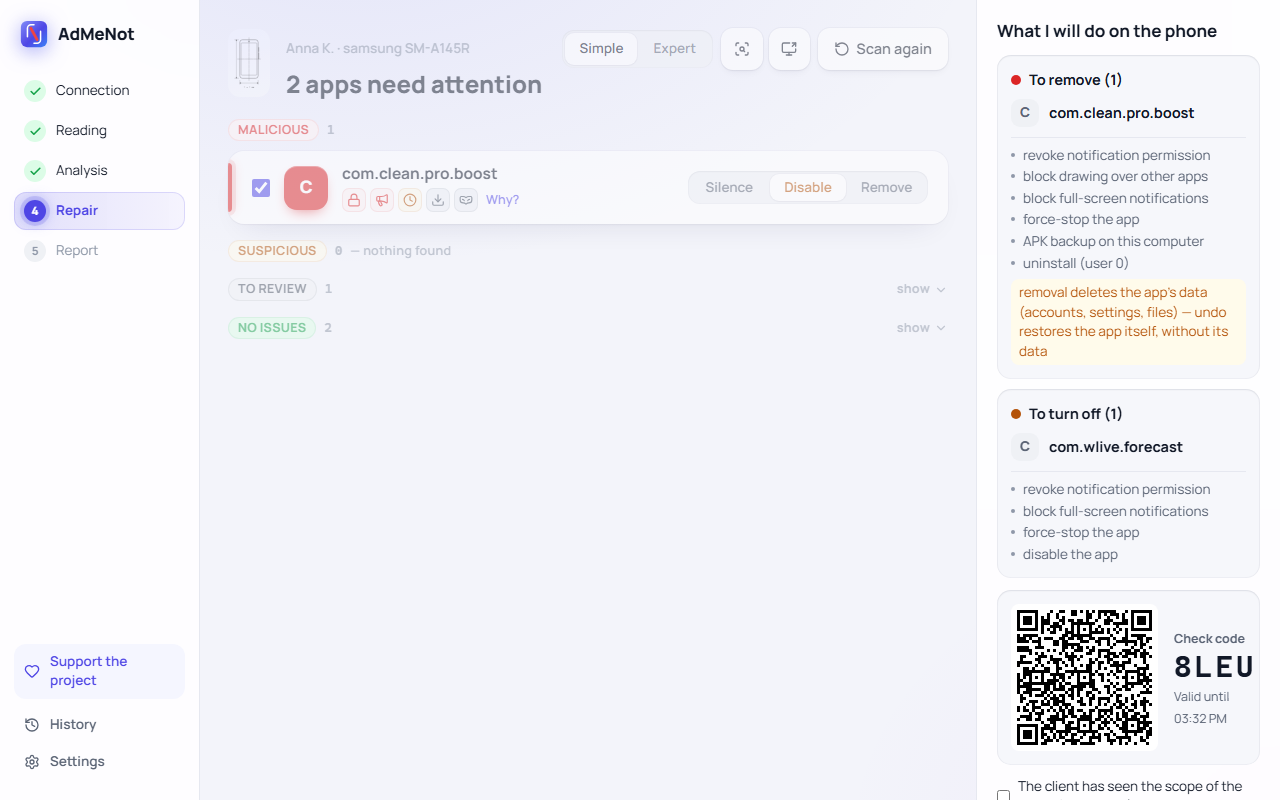
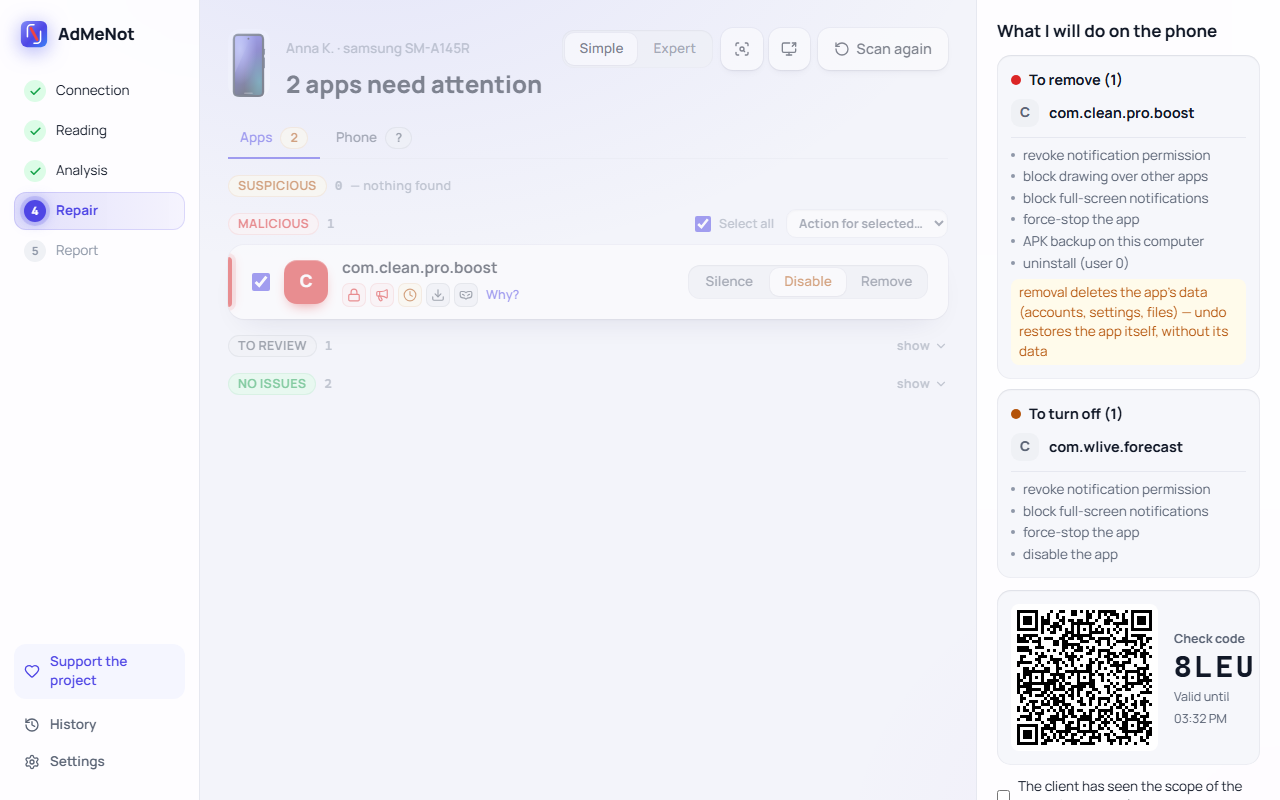
docs: data transfer, file explorer and site notifications in README and on the site
README (both languages) gets three sections and two transfer screenshots;
all README screenshots are regenerated from the current UI. The landing
pages get a "More than ads" section. Scoring numbers are marked as 0.10.0.

Claude-Session: https://claude.ai/code/session_01EUwsDA2ysNM84X11AtcmS1

diff --git a/ui/readme-shots/shots.spec.ts b/ui/readme-shots/shots.spec.ts
@@ -14,12 +14,15 @@ const T = {
     simple: 'Prosty', why: 'Dlaczego?', technical: 'Szczegóły techniczne', source: 'Znajdź źródło reklamy',
     back: 'Wróć', console: 'Konsola ADB', summary: /Podsumowanie/, plan: 'Plan naprawy', share: 'Pokaż klientowi',
     run: /^Wykonaj/, done: 'Telefon naprawiony', history: 'Historia', historyTitle: 'Historia zleceń',
-    ready: 'Połączono', phone: 'Samsung Galaxy A14' },
+    ready: 'Połączono', phone: 'Samsung Galaxy A14',
+    upload: 'Wgraj',
+    uploadTitle: 'Co wgrać na nowy telefon?', space: 'Miejsce na nowym telefonie', moved: 'Dane przeniesione' },
   en: { scenario: 'adware-en', client: 'e.g. Anna K.', scan: 'Scan', apk: /APK analysis in the background/,
     expert: 'Expert', simple: 'Simple', why: 'Why?', technical: 'Technical details', source: 'Find the ad source',
     back: 'Back', console: 'ADB console', summary: /Summary/, plan: 'Repair plan', share: 'Show the client',
     run: /^Run/, done: 'Phone fixed', history: 'History', historyTitle: 'Order history', ready: 'Connected',
-    phone: 'Samsung Galaxy A14' },
+    phone: 'Samsung Galaxy A14', upload: 'Upload',
+    uploadTitle: 'What to upload to the new phone?', space: 'Space on the new phone', moved: 'Data transferred' },
 } as const;
 
 type Lang = keyof typeof T;
@@ -80,6 +83,21 @@ for (const lang of ['pl', 'en'] as const) {
       await page.getByRole('button', { name: t.history, exact: true }).click();
       await expect(page.getByRole('heading', { name: t.historyTitle })).toBeVisible();
       await shot(page, lang, 'history');
+    });
+
+    test('data transfer: upload plan, result', async ({ page }) => {
+      await page.clock.setFixedTime(new Date('2026-09-26T15:00:00')); // nagrana kopia jest świeża
+      await page.setViewportSize({ width: 1280, height: 900 });
+      await page.goto(`/?scenario=transfer_restore&lang=${lang}`);
+      await page.getByRole('radio', { name: /IMEI 499001200000020/ }).dispatchEvent('click');
+      await page.getByRole('button', { name: t.upload, exact: true }).click();
+      await expect(page.getByRole('heading', { name: t.uploadTitle })).toBeVisible({ timeout: 15_000 });
+      const panel = page.getByRole('complementary', { name: t.space });
+      await expect(panel).toBeVisible();
+      await shot(page, lang, 'transfer-plan');
+      await panel.getByRole('button', { name: new RegExp(`^${t.upload}`) }).click();
+      await expect(page.getByRole('heading', { name: t.moved })).toBeVisible({ timeout: 15_000 });
+      await shot(page, lang, 'transfer-done');
     });
 
     test('client plan page on the phone', async ({ page }) => {

diff --git a/server/public/pl/index.html b/server/public/pl/index.html
@@ -32,7 +32,7 @@
   <section class="hero wrap">
     <div>
       <h1>Usuwanie adware z&nbsp;telefonów klientów</h1>
-      <p class="lead">AdMeNot to darmowy program na Windows dla serwisów GSM. Podłączasz telefon z Androidem przez USB, a program znajduje aplikacje wyświetlające reklamy nad innymi aplikacjami, wyjaśnia, dlaczego każdą oznaczył, i usuwa je z możliwością cofnięcia.</p>
+      <p class="lead">AdMeNot to darmowy program na Windows dla serwisów GSM. Podłączasz telefon z Androidem przez USB, a program znajduje aplikacje wyświetlające reklamy nad innymi aplikacjami, wyjaśnia, dlaczego każdą oznaczył, i usuwa je z możliwością cofnięcia. Przenosi też dane na nowy telefon i pokazuje pliki telefonu bez MTP.</p>
       <div class="actions">
         <a class="button download" href="https://github.com/PerlessMtFuji/AdMeNot/releases/latest">
           <svg viewBox="0 0 24 24" aria-hidden="true" fill="none" stroke="currentColor" stroke-width="2.2" stroke-linecap="round" stroke-linejoin="round"><path d="M12 4v11m0 0-4.5-4.5M12 15l4.5-4.5M5 20h14"/></svg>
@@ -154,7 +154,34 @@
     </div>
   </section>
 
-  <section class="band" id="pobierz">
+  <section class="band">
+    <div class="wrap">
+      <div class="intro">
+        <h2>Nie tylko reklamy</h2>
+        <p>Trzy narzędzia do codziennej pracy z telefonem klienta, w tym samym programie.</p>
+      </div>
+      <ul class="safety">
+        <li>
+          <h3>Powiadomienia ze stron</h3>
+          <p>Reklamy w pasku powiadomień często wysyła strona, której ktoś kliknął „Zezwól”. AdMeNot pokazuje takie strony w każdej przeglądarce i wyłącza je — z możliwością cofnięcia.</p>
+        </li>
+        <li>
+          <h3>Kopia starego telefonu</h3>
+          <p>Zdjęcia, filmy, dokumenty, kontakty, SMS-y, historia połączeń i aplikacje trafiają na komputer. Wypięty kabel nie psuje kopii: program kończy od miejsca przerwania.</p>
+        </li>
+        <li>
+          <h3>Wgranie na nowy telefon</h3>
+          <p>Wybierasz, co wgrać. Nic nie jest nadpisywane ani usuwane, szkodliwe pliki APK z pobranych zostają pominięte, a na koniec dostajesz protokół przekazania w PDF.</p>
+        </li>
+        <li>
+          <h3>Pliki telefonu bez MTP</h3>
+          <p>Eksplorator z miniaturami i podglądem zdjęć, filmów, PDF-ów i arkuszy. Kopiujesz pliki w obie strony, także przeciągnięciem; niczego nie usuwa.</p>
+        </li>
+      </ul>
+    </div>
+  </section>
+
+  <section class="band alt" id="pobierz">
     <div class="wrap">
       <div class="intro">
         <h2>Pobierz AdMeNot</h2>

diff --git a/server/public/index.html b/server/public/index.html
@@ -32,7 +32,7 @@
   <section class="hero wrap">
     <div>
       <h1>Remove adware from customers' phones</h1>
-      <p class="lead">AdMeNot is a free Windows tool for phone repair shops. Connect an Android phone over USB: it finds the apps that show ads over other apps, explains why each one was flagged, and removes them, with undo.</p>
+      <p class="lead">AdMeNot is a free Windows tool for phone repair shops. Connect an Android phone over USB: it finds the apps that show ads over other apps, explains why each one was flagged, and removes them, with undo. It also moves data to a new phone and browses the phone's files without MTP.</p>
       <div class="actions">
         <a class="button download" href="https://github.com/PerlessMtFuji/AdMeNot/releases/latest">
           <svg viewBox="0 0 24 24" aria-hidden="true" fill="none" stroke="currentColor" stroke-width="2.2" stroke-linecap="round" stroke-linejoin="round"><path d="M12 4v11m0 0-4.5-4.5M12 15l4.5-4.5M5 20h14"/></svg>
@@ -154,7 +154,34 @@
     </div>
   </section>
 
-  <section class="band" id="download">
+  <section class="band">
+    <div class="wrap">
+      <div class="intro">
+        <h2>More than ads</h2>
+        <p>Three tools for everyday work on a customer's phone, in the same program.</p>
+      </div>
+      <ul class="safety">
+        <li>
+          <h3>Notifications from websites</h3>
+          <p>Ads in the notification shade often come from a website someone once allowed. AdMeNot lists such sites in every browser and turns them off, with undo.</p>
+        </li>
+        <li>
+          <h3>A copy of the old phone</h3>
+          <p>Photos, videos, documents, contacts, SMS, call history and apps go to the computer. A pulled cable does not break the copy: the program continues where it stopped.</p>
+        </li>
+        <li>
+          <h3>Upload to the new phone</h3>
+          <p>You choose what to upload. Nothing is overwritten or deleted, harmful APK files from downloads are skipped, and you get a handover report in PDF at the end.</p>
+        </li>
+        <li>
+          <h3>Phone files without MTP</h3>
+          <p>An explorer with thumbnails and previews of photos, videos, PDFs and spreadsheets. Copy files both ways, also by dragging; it never deletes anything.</p>
+        </li>
+      </ul>
+    </div>
+  </section>
+
+  <section class="band alt" id="download">
     <div class="wrap">
       <div class="intro">
         <h2>Get AdMeNot</h2>

diff --git a/README.pl.md b/README.pl.md
@@ -61,6 +61,29 @@ AdMeNot wykonuje kroki i sprawdza każdy z nich. Administrator urządzenia wymag
 
 Każdą zmianę cofniesz w **Historii**: wyłączona lub wyciszona aplikacja wraca do poprzedniego stanu, usunięta jest instalowana z kopii. Usunięcie kasuje dane aplikacji (konta, ustawienia, pliki) — cofnięcie przywraca samą aplikację, bez danych.
 
+### Stan telefonu: powiadomienia ze stron
+
+Reklamy w pasku powiadomień często nie pochodzą z aplikacji, tylko ze stron, którym ktoś kiedyś kliknął „Zezwól”. Zakładka **Telefon** w wynikach skanu pokazuje dla każdej przeglądarki (Chrome, Samsung Internet, Edge, Brave, Opera, Vivaldi, a po włączeniu debugowania także Firefox) strony z prawem do powiadomień i pozwala je wyłączyć — pojedynczo albo wszystkie. To też da się cofnąć z Historii.
+
+### Przenoszenie danych na nowy telefon
+
+**Kopiuj dane** kopiuje stary telefon na komputer: zdjęcia i filmy, pobrane pliki i dokumenty, pliki WhatsAppa, inne foldery, kontakty, SMS-y i MMS-y, historię połączeń oraz aplikacje. Potem podłączasz nowy telefon i wybierasz, co wgrać. Jednocześnie wystarcza jeden telefon i jeden kabel.
+
+<img src="docs/img/pl/transfer-plan.png" alt="Wybór danych do wgrania na nowy telefon" width="49%"> <img src="docs/img/pl/transfer-done.png" alt="Dane przeniesione: wynik i protokół" width="49%">
+
+- Na nowym telefonie nic nie jest nadpisywane ani usuwane: plik o tej samej nazwie, ale innej treści, trafia obok, a wpisy, które telefon już ma, są pomijane. Przed wgraniem wiadomości program robi kopię bezpieczeństwa wpisów nowego telefonu.
+- Pliki APK z folderu pobranych są sprawdzane tak jak przy skanie: szkodliwe nie są wgrywane, podejrzane są domyślnie odznaczone.
+- Aplikacje instalują się z kopii, bez danych — w każdej trzeba zalogować się ponownie. Czaty WhatsAppa przywraca sam WhatsApp ze swojej kopii.
+- Gdy telefon nie pozwala odczytać albo zapisać kontaktów lub wiadomości przez USB (np. część telefonów Xiaomi), AdMeNot korzysta z pliku eksportu i mówi, gdzie go znaleźć.
+- Wypięty kabel albo zamknięty program nie psują kopii ani wgrywania — po ponownym podłączeniu program kończy od miejsca przerwania.
+- Kopia leży na komputerze 7 dni (termin i folder zmienisz w Ustawieniach), a przeniesienie kończy się protokołem przekazania w PDF.
+
+Sprawdzone na telefonach OPPO (ColorOS, Android 12), Xiaomi (MIUI 13, Android 11 i 13) i Samsung (kopiowanie). Na innych nakładkach przenoszenie kontaktów i wiadomości może pójść przez plik eksportu.
+
+### Eksplorator plików
+
+**Pliki** to przeglądarka pamięci telefonu przez ADB — bez MTP, które przy dużych folderach potrafi się zawiesić. Miniatury zdjęć i filmów, podgląd zdjęć, wideo, muzyki, tekstu, PDF-ów i arkuszy (XLSX, XLS, CSV), liczba plików i rozmiar każdego folderu. Zaznaczone pliki i foldery skopiujesz na komputer, a z komputera wgrasz przyciskiem, przeciągnięciem albo Ctrl+V; możesz też utworzyć folder lub plik tekstowy. Eksplorator niczego nie usuwa, nie przenosi i nie zmienia nazw.
+
 ### Poza tym
 
 - Polski i angielski, jasny i ciemny motyw (zgodnie z Windows).
@@ -69,7 +92,7 @@ Każdą zmianę cofniesz w **Historii**: wyłączona lub wyciszona aplikacja wra
 
 ## Jak oceniane są aplikacje
 
-Każda aplikacja dostaje **wynik od 0 do 100** i **pewność wniosku** (niska / średnia / wysoka). Werdykt zależy od obu. Reguły są w [`rules.yaml`](src/admenot/engine/rules/data/rules.yaml) i [`python_rules.py`](src/admenot/engine/rules/python_rules.py), arytmetyka w [`scoring.py`](src/admenot/engine/scoring.py). Liczby poniżej dotyczą wersji 0.9.2.
+Każda aplikacja dostaje **wynik od 0 do 100** i **pewność wniosku** (niska / średnia / wysoka). Werdykt zależy od obu. Reguły są w [`rules.yaml`](src/admenot/engine/rules/data/rules.yaml) i [`python_rules.py`](src/admenot/engine/rules/python_rules.py), arytmetyka w [`scoring.py`](src/admenot/engine/scoring.py). Liczby poniżej dotyczą wersji 0.10.0.
 
 ### 1. Sygnały
 
@@ -256,7 +279,7 @@ Zrzuty ekranu w tym README powstają z tych nagrań: `cd ui; npm run readme-shot
 
 ### Dane użytkownika
 
-`%LOCALAPPDATA%\AdMeNot\`: `settings.json`, `journal.db`, `backups\`, `logs\` (log sesji ADB i `app-*.log` z błędami okna), `phone_overrides.json`.
+`%LOCALAPPDATA%\AdMeNot\`: `settings.json`, `journal.db`, `backups\`, `transfers\` (kopie danych telefonów), `logs\` (log sesji ADB i `app-*.log` z błędami okna), `phone_overrides.json`.
 
 ### Znane ograniczenia
 

diff --git a/README.md b/README.md
@@ -61,6 +61,29 @@ AdMeNot runs the steps and verifies each one. Device administrators need one tap
 
 Every change can be undone from **History**: a disabled or silenced app returns to its previous state, a removed app is reinstalled from the backup. Removing an app deletes its data (accounts, settings, files) — undo brings back the app itself, not its data.
 
+### Phone state: notifications from websites
+
+Ads in the notification shade often come not from an app but from websites someone once allowed. The **Phone** tab of the scan results lists, for each browser (Chrome, Samsung Internet, Edge, Brave, Opera, Vivaldi, and Firefox once its debugging is on), the sites allowed to send notifications and lets you turn them off — one by one or all at once. This, too, can be undone from History.
+
+### Moving data to a new phone
+
+**Copy data** copies the old phone to the computer: photos and videos, downloads and documents, WhatsApp files, other folders, contacts, SMS and MMS, call history and apps. Then you plug in the new phone and choose what to upload. One phone and one cable at a time is enough.
+
+<img src="docs/img/en/transfer-plan.png" alt="Choosing what to upload to the new phone" width="49%"> <img src="docs/img/en/transfer-done.png" alt="Data transferred: result and report" width="49%">
+
+- Nothing on the new phone is overwritten or deleted: a file with the same name but different content is saved beside it, and entries the phone already has are skipped. Before uploading messages the program makes a safety backup of the new phone's own entries.
+- APK files from the downloads folder are checked as in a scan: harmful ones are not uploaded, suspicious ones are unticked by default.
+- Apps are installed from the copy, without their data — each one needs signing in again. WhatsApp chats are restored by WhatsApp itself from its own backup.
+- When a phone does not let contacts or messages be read or written over USB (some Xiaomi phones, for example), AdMeNot uses an export file and says where to find it.
+- A pulled cable or a closed program does not break a copy or an upload — after reconnecting, the program continues where it stopped.
+- The copy stays on the computer for 7 days (the period and the folder can be changed in Settings), and a transfer ends with a handover report in PDF.
+
+Tested on OPPO (ColorOS, Android 12), Xiaomi (MIUI 13, Android 11 and 13) and Samsung (copying) phones. On other Android skins, contacts and messages may go through an export file.
+
+### File explorer
+
+**Files** browses the phone's storage over ADB — without MTP, which tends to hang on large folders. Thumbnails of photos and videos, previews of photos, video, music, text, PDFs and spreadsheets (XLSX, XLS, CSV), the file count and size of every folder. Selected files and folders can be copied to the computer, and files from the computer uploaded with a button, by dragging or with Ctrl+V; you can also create a folder or a text file. The explorer never deletes, moves or renames anything.
+
 ### Also
 
 - Polish and English, light and dark theme (following Windows).
@@ -69,7 +92,7 @@ Every change can be undone from **History**: a disabled or silenced app returns 
 
 ## How apps are rated
 
-Each app gets a **score from 0 to 100** and a **confidence** (low / medium / high). Both together decide the verdict. The rules live in [`rules.yaml`](src/admenot/engine/rules/data/rules.yaml) and [`python_rules.py`](src/admenot/engine/rules/python_rules.py), the arithmetic in [`scoring.py`](src/admenot/engine/scoring.py). Numbers below are from version 0.9.2.
+Each app gets a **score from 0 to 100** and a **confidence** (low / medium / high). Both together decide the verdict. The rules live in [`rules.yaml`](src/admenot/engine/rules/data/rules.yaml) and [`python_rules.py`](src/admenot/engine/rules/python_rules.py), the arithmetic in [`scoring.py`](src/admenot/engine/scoring.py). Numbers below are from version 0.10.0.
 
 ### 1. Signals
 
